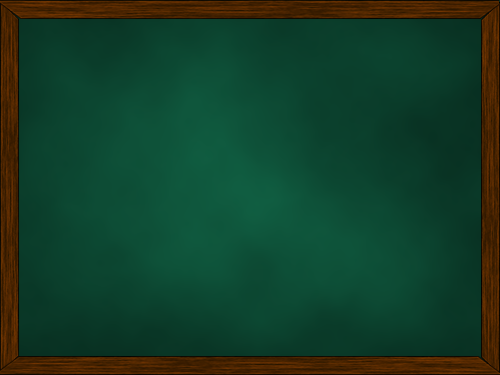
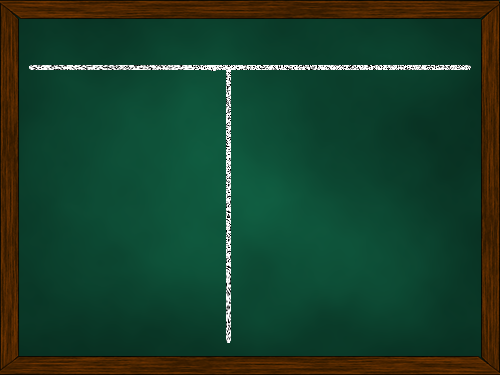
Finished the start menu, may need to rework the 1/2 Player. Looks weird. For tomorrow though. Changed the original chalk board as well with some lines to divide the permanent sections from the volatile parts

Changed region(s): [[0.06, 0.176, 0.96, 0.9093]]

diff --git a/Hangman/src/com/xid_studios/java/game/hangman/Game.java b/Hangman/src/com/xid_studios/java/game/hangman/Game.java
@@ -7,9 +7,12 @@ import java.awt.BorderLayout;
 import java.awt.Canvas;
 import java.awt.Color;
 import java.awt.Dimension;
+import java.awt.Font;
 import java.awt.Graphics2D;
 import java.awt.image.BufferStrategy;
 import java.awt.image.BufferedImage;
+import java.io.File;
+import java.io.FileInputStream;
 import java.io.IOException;
 
 import javax.imageio.ImageIO;
@@ -31,14 +34,16 @@ public class Game extends Canvas implements Runnable {
     private String bgPath = "/ChalkBackground.png";
     private String manPath = "/Hangman Sprite.png";
     private String gallowPath = "/Gallows.png";
+    private String fontPath = "res/VTK.ttf";
 
     private BufferedImage chalkBoard = null;
     private BufferedImage hanger = null;
     private BufferedImage gallows = null;
+    public Font dFont = null;
 
     HangmanSpriteSheet sheet;
 
-    public final int CHANCES = 2;
+    public final int CHANCES = 5;
     int chancesLeft = CHANCES;
 
     State currentState = State.START_MENU;
@@ -54,6 +59,15 @@ public class Game extends Canvas implements Runnable {
             e.printStackTrace();
         }
         sheet = new HangmanSpriteSheet(manPath);
+
+        try {
+            File f = new File(fontPath);
+            FileInputStream in = new FileInputStream(f);
+            dFont = Font.createFont(Font.TRUETYPE_FONT, in);
+            System.out.println("Created Derived Font");
+        } catch (Exception e) {
+            System.out.println("Problem Creating Font");
+        }
 
         frame = new JFrame(GAME_NAME);
         frame.setUndecorated(true);
@@ -105,9 +119,19 @@ public class Game extends Canvas implements Runnable {
         g.drawImage(gallows, 0, 65, gallows.getWidth(), gallows.getHeight(),
                 null);
 
+        g.setColor(Color.WHITE);
+        g.setFont(dFont.deriveFont((float) 38));
+        g.drawString("Hangman", 45, 58);
+        g.drawString("X", 445, 58);
         if (currentState == State.START_MENU) {
+            g.setFont(dFont.deriveFont((float) 28));
+            g.drawString("One Player", 250, 150);
+            g.drawString("Two Players", 250, 225);
+        } else if (currentState == State.PLAY_SCREEN) {
             setHangerImage();
             g.drawImage(hanger, 80, 90, 113, 256, null);
+            g.setFont(dFont.deriveFont((float) 31));
+            g.drawString(chancesLeft + "", 100, 330);
         }
 
         g.dispose();
